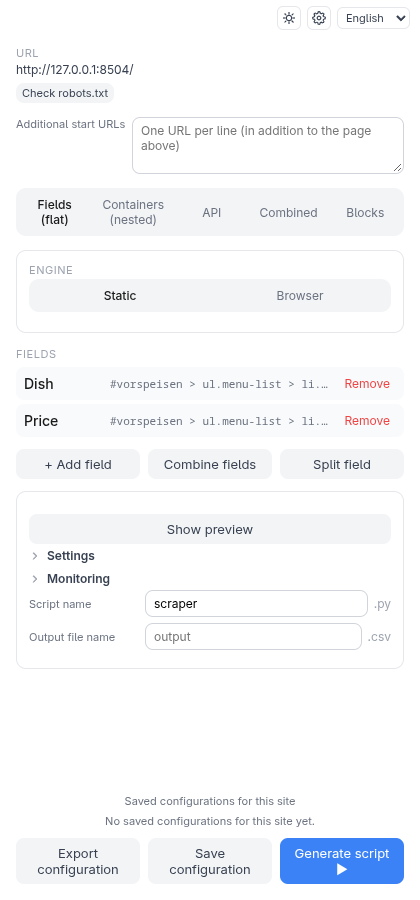
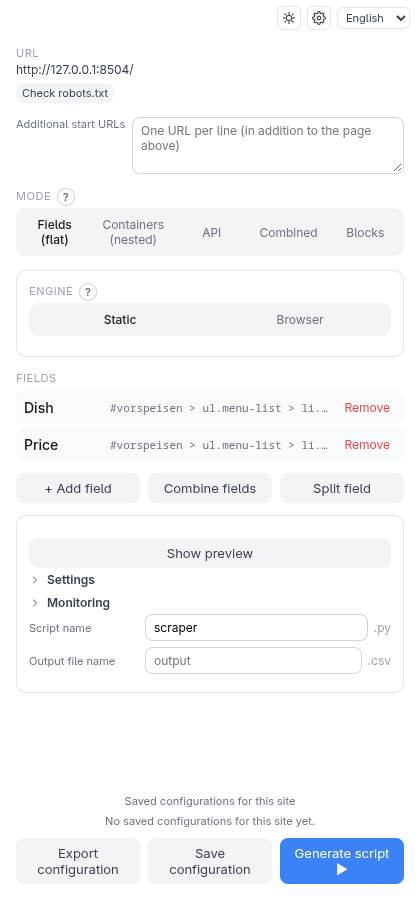
docs(ui): document the choice guidance and refresh the affected screenshots (#398)

diff --git a/e2e/screenshots/scenarios/modes.js b/e2e/screenshots/scenarios/modes.js
@@ -1,6 +1,15 @@
 // Screenshots for docs/user/modes.md — the mode toggle and a container tree.
 module.exports = [
   {
+    id: 'modes-help',
+    fixture: 'speisekarte',
+    async run(s) {
+      await s.waitForIdle();
+      await s.popupPage.locator('.row-label:has(.help-host[data-help="help.mode.choice"]) .help-btn').click();
+      await s.shot('modes-help');
+    },
+  },
+  {
     id: 'modes-toggle',
     fixture: 'speisekarte',
     async run(s) {

diff --git a/CLAUDE.md b/CLAUDE.md
@@ -76,6 +76,7 @@ docs/
 - **Visual design refresh: design tokens, icons, interaction consistency** (Issue #139): a purely visual pass over `popup/popup.html`'s CSS — no information-architecture/flow change. A `:root` block of CSS custom properties (`--color-*`, `--radius-*`, `--shadow-*`/`--overlay-*`, `--focus-ring`, `--transition-fast`) replaces ~90 one-off hex/rgba/border-radius literals that had been scattered through the file with no shared source of truth, migrated value-for-value (verified pixel-identical via before/after screenshots) with one deliberate exception: the success-icon's `#22c55e` and the pre-existing `#16a34a` (already used for robots-allowed/toast-info) are two near-identical greens with no reason to differ, so they now share one `--color-success` token. This is also the direct prerequisite for a future dark-mode pass — a `[data-theme="dark"]` block would only need to redefine these tokens, not every rule using them. The two literal Unicode status glyphs (`⚠`/`✓`) are now small hand-drawn inline SVGs (no icon font/CDN, per the "free plugin" principle), sized/colored via the token set. The three independent tree-toggle implementations (`container-tree-ui.js`'s group tree, `api-config-ui.js`'s API tree, `popup.js`'s DOM tree view) — each of which swapped between two different Unicode glyphs (`▸`/`▾`) via `textContent` on every click — now each insert one static chevron SVG per row and toggle a `.collapsed` class instead, with the actual rotation (`transform: rotate(-90deg)`) handled once in shared CSS rather than duplicated per-file click-handler logic; the DOM tree view keeps its "starts collapsed" default (unlike the group/api trees, which start expanded) by applying `.collapsed` at build time. Finally, hover/active/transition treatment is unified: the shared `button{}` base rule now transitions multiple properties via `--transition-fast` (was: `background .1s` only) and every button gets a uniform `:active` press feedback (`translateY(1px)`) — `.mode-btn`/`.btn-toggle` inherit both for free since they're plain `<button>`s; inactive `.mode-btn` tabs and the three tree-row types (`.group-tree-row`/`.api-tree-row`/`.body-tree-row`, previously with zero interactive feedback) gained a hover state; text inputs/textareas/selects share one focus-transition rule. Deliberately out of scope: turning "Remove"/"+ Add"-style text-label buttons into icon+label, which would be a much larger pass and risks breaking existing `.textContent` assertions in `popup.test.js`.
 - **Dark mode + visual modernization pass** (Issue #140): builds directly on #139's token groundwork — every color/overlay/shadow token now lives in a light/dark pair instead of one fixed set. `:root` carries the light defaults; `@media (prefers-color-scheme: dark) { :root:not([data-theme]) { ... } }` redefines them automatically when the OS prefers dark and the user hasn't made an explicit choice; an explicit `html[data-theme="light"|"dark"]` override (see `shared/theme.js` below) always wins over both, and needs no rule of its own for "light" specifically since the media query already stays out of its way when the attribute is present. `color-scheme: light dark` on `:root` (narrowed to a single value by the two explicit-override rules) gives native form controls — checkbox/select-popup chrome, and any `input`/`textarea` with no explicit background of its own, like `#input-additional-urls` — a correct dark rendering for free. **Contrast audit** (called for by the issue): every status color already read from #139's token set, so brightening them for dark backgrounds was enough — no per-rule changes needed for `.robots-txt-allowed`/`.preview-summary.warn`/toast variants/etc. One real bug the audit *did* catch: several "white text on a colored background" rules (`.btn-primary`, `.toast`, picked chips) used `var(--color-surface)` for that text color — correct by coincidence in light mode (surface happens to be white) but flips to near-black in dark mode. A new theme-agnostic `--color-on-accent` token (always a light color regardless of theme, since the accent backgrounds themselves stay readable with light text in both) replaces `--color-surface` at every one of those call sites. **Manual toggle**: a new `extension/shared/theme.js` mirrors `i18n.js`'s `getStoredLanguage`/`setLanguage` pattern exactly (`chrome.storage.local`), with one difference — "follow the OS" is a real third state, represented as `null` (not a storable `'system'` string) throughout the module. `#theme-toggle` next to the language selector cycles system → light → dark → system on click (`SFTheme.cycleTheme`), a single compact icon button chosen over a dropdown for lack of panel-width room next to the existing language `<select>`. **Modernization** (requested alongside the issue, not part of its own scope): the radius scale is nudged up again (6/8/10/14, from #139's 4/6/8/10) for a softer feel; `--transition-fast` switches from a plain linear ease to the "standard" `cubic-bezier(0.4, 0, 0.2, 1)` easing curve; a new `--glow-primary` gives `.btn-primary:hover` a soft colored glow instead of a flat color swap; the old flat `--shadow-sm`/`--shadow-md` pair is replaced by a graded `--elevation-1/2/3` scale (layered shadow pairs) for more "floating" depth on the mode-toggle active pill and modal; the `.mode-toggle`/`.mode-btn` segmented controls (mode/engine/notify-method — three markup instances) gain an animated sliding `.mode-toggle-thumb` behind the active button instead of each button just recoloring itself in place, positioned via `popup.js`'s `syncModeToggleThumbs()` (JS, not CSS-only, since it depends on the active button's actual rendered offset/width) — called at the end of every `render()` and on a rAF-throttled `window.resize` listener, since the side panel is user-resizable; `.engine-section`/`.output-settings` get an outlined "card" (border only, no fill, since their own children already use `--color-surface-subtle`) to break up the idle screen's otherwise undifferentiated list of settings — the mode-specific sections are deliberately left unboxed since they're the primary content being edited and already carry their own row-level visual treatment; every scrollable container from #138/#122 gets a slim `::-webkit-scrollbar` (Chromium-only, matching the extension's own supported browser range). Deliberately out of scope, same reasoning as #139: turning text-label buttons into icon+label.
 - **esbuild bundling; "Load unpacked" points at `extension/dist/`** (Issue #389): the extension is no longer loaded straight from its source folder. `extension/build.js` (`npm run build`, `npm run build:watch`, plus `--channel release` and `--outdir <dir>` for `install/build-bundle.sh`) bundles four entry points — `popup/popup.js` (side panel), `content/content-script.js` (isolated world, every frame; `shared/logger.js` is bundled in, so the manifest no longer lists it), `content/api-capture.js` (the `"world": "MAIN"` recorder, `document_start`) and `background/service-worker.js` — as `iife` for Chromium 114+ into `dist/<same relative path>`, source maps beside them, and copies the static files (`manifest.json`, `popup/popup.html`, `popup/popup.css`, `popup/screens/*.html`) to the same relative paths, so `chrome.runtime.getURL('popup/screens/idle.html')` and the manifest paths are unchanged. `dist/` is git-ignored; Jest, `tsc` and the e2e harness treat it as build output (`modulePathIgnorePatterns`, `exclude`). **What the bundler replaced:** every module used to carry dual-environment boilerplate so the same file ran as a classic `<script>` (shared global scope) and under Jest (CommonJS) — an IIFE assigning one `self.SFXxx` global, a `typeof require !== 'undefined' ? require(...) : self.SFXxx` shim per import, a `typeof module`/`self` export footer, a 56-line `<script>` list in `popup.html`, and `classic-script-loading.test.js` guarding the top-level-name-collision bug class that came with it. All of that is gone: a module is now plain CommonJS (`const { x } = require('./y')`, `module.exports = { ... }`), `popup.html` has one `<script src="popup.js">`, and Jest keeps running the sources directly. No behavior change. **The three explicit replacements for what used to be environment sniffing:** `i18n/i18n.js` `require`s the three dictionaries statically (inlined into the popup bundle, loaded identically in Jest — no fetch, no `chrome.runtime.getURL`); `popup.js`'s `loadScreenPartial` and `content/api-capture.js`'s fetch/XHR patching check `process.env.NODE_ENV === 'test'` (Jest sets it, the build `define`s it to `"production"`, so the code is dead-branch-free in the bundle and `process` never exists at runtime — never reference `process` for anything else). **Release channel** (Issue #352): `shared/build-config.js` derives `CHANNEL` from `process.env.SF_CHANNEL`, which `build.js` always `define`s (`"development"` by default, `"release"` for `--channel release`); `install/build-bundle.sh` builds the release channel into a temp dir (`npm ci` + `node build.js --channel release --outdir …`, then ships the bundle without `.map` files) instead of `sed`-rewriting a source line, and `build.js` fails the build if a release build did not actually produce the release constant. `shared/companion-url-policy.test.js` builds the real module with each channel to prove it. **Consequences for contributors:** after editing extension code run `npm run build` (or leave `build:watch` running) and reload the extension at `chrome://extensions`; there are no page-level globals any more (`self.SFXxx`, `SFTheme`, a popup's `_state`) — a real-browser check that needs to reach into the popup must go through the DOM, `chrome.storage` or Playwright routes, not `page.evaluate(() => SFFoo…)`; a new module needs no `popup.html` edit, just a `require`. TypeScript conversion stays a separate, file-by-file follow-up.
+- **Guidance for the first decisions: mode, container type, field type, engine** (Issue #398, UX audit findings 1/2/11): each choice that used to be unexplained now has a #396 help popover with a one-line "which fits?" and an example per option — the **mode** toggle (`help.mode.choice`, one line each for Fields, Containers, API and Combined/Blocks together), the **engine** row (`help.engine.choice`; the hover-only `idle.engineBrowserTitle` tooltip and its `title` attribute are gone), the **container type** in `modal-container-new` (`help.containerType.type`, Single element vs. Repeating, with the example "Menu with 12 dishes → Repeating") and the **field type** (`help.fieldType.container` — Text/Attribute/Exists?/Own text only — in `modal-field-extended`, `help.fieldType.flat` — Text/Attribute — in flat mode's `#field-name-mode-section`). Existing labels keep their names (docs/screenshots use them); the gloss lives in the popover. Markup gotcha: `data-i18n` replaces an element's whole content, so a label that carries a help host keeps its text in an inner `<span data-i18n>` next to the host (`<span class="help-host">`), and a host in a `.row-label` div uses `data-help-anchor` on that div so the panel is inserted after the row. New label `idle.modeLabel` ("Mode") above the mode toggle. **The container type is chosen before the element is picked** (name/type modal first, deliberately — see "Container mode" below), so the live match count can't sit next to the choice; instead the toast right after the pick checks the count against the chosen type (`choice-guidance.js` `containerCountAdvice(count, repeating)` → `zero` / `singleMany` / `repeatingOne` / `ok` / `unknown`; `showMatchCountToast(name, count, repeating)` — `message-router.js` and `session-restore.js` pass `pendingNewContainer.repeating`): several matches for a *single* container → warn toast "only the first is used", one match for a *repeating* one → info hint, otherwise the plain "N element(s) found". Its remedy is new UI: a group row's "(single)"/"(repeating)" suffix is now a `button.group-tree-type` (`container-tree-ui.js`; fields keep a plain `span`) whose delegated click flips `repeating` via `updateGroupTreeNode` — before, the type couldn't be changed once the container existed. **Static → Browser suggestion**: when `generate()` fails and the engine is `Static`, `shouldSuggestBrowserEngine(engine, message)` (matches only the companion verifier's stable sentence "…returned no data", `PythonScriptVerifier`) appends `toast.noDataTryBrowser` to the error toast — widening that message mapping is the error-message issue's (#401) job. Covered by `choice-guidance.test.js` (pure logic, the toast variants, the tree toggle at any depth, the suggestion for Static vs. Browser) and `e2e/examples/issue-398-choice-guidance-check.js` (popovers on the idle screen and in both field/container modals incl. one-at-a-time and no tooltip, de/es, single+many warning and the toggle, repeating+one hint, and a real Static trial run on the JavaScript-built `infinite-scroll` fixture ending with the suggestion).
 - **Companion-unreachable guidance** (Issue #406): the `COMPANION_ERROR` screen used to say only "Start ScrapingFactory.Companion and try again" — nothing about what the companion is, where it comes from or what to do for which situation (UX audit finding 19). It now has two forms, switched by whether a companion has *ever* answered on this browser: until the first successful health check (flag `companionReached`, `chrome.storage.local`, written by `checkCompanion` via `markCompanionReached()`, loaded at the start of every check) the **long form** (`#error-guidance-long`) explains the companion in a sentence and lists the three situations — "1 · Not installed yet" (the installer name and exact command for this OS: `install.sh --autostart` / `powershell … install.ps1 -Autostart`, the same as `install/INSTALL.md`), "2 · Installed, but not running" (run the installer again — it starts the companion — or start the program from where the installers put it: `~/.config/ScrapingFactory/app/companion/ScrapingFactory.Companion`, `~/Library/Application Support/…` on macOS, `%APPDATA%\ScrapingFactory\app\companion\ScrapingFactory.Companion.exe`), "3 · Running on another address or port" (the existing address field; `https://` for another computer); afterwards only the one-line hint (`#error-hint-short`). "Once" is read as *until the companion has been reached*, not "only the first time the screen is shown", so someone who closes and reopens the panel before installing keeps the help. Both forms keep a **"Why can't it connect?"** `help.companionError.causes` popover (a #396 help host) listing the four usual causes with their fix (not started, other port/computer, https needed — the #352 address policy —, a shared companion may want an access key); the help component gained one rule for it: a `\n` in a help text starts a new line (`white-space: pre-line`). **Most likely**: `likelySituations({url, defaultUrl, errorMessage})` marks situation 3 for a custom address or an HTTP error answer (something other than a healthy companion is there) and 1+2 for the default address that didn't answer at all; `checkCompanion` keeps the last failure for it (`getCompanionFailure()`, cleared on success). Texts carrying a parameter (the installer name) are set by script, not `data-i18n` (`applyStaticTranslations` passes no parameters); the OS comes from `navigator.userAgent` (`detectPlatform`, anything but Windows/macOS gets the shell instructions). New modules per Architecture Decision #12/#13: `popup/companion-guidance.js` (pure logic + the flag; no `@ts-check` since it touches `chrome.storage`) and `popup/companion-guidance-ui.js` (`renderCompanionGuidance()`, called from `popup.js`'s `render()` right after `renderCompanionErrorScreen()`; it requires `companion-client.js`, never the other way round). Covered by `companion-guidance.test.js`, `companion-guidance-ui.test.js` (against the real `popup.html` markup) and `e2e/examples/issue-406-companion-guidance-check.js` (no companion running; long form + OS command + the likely mark, popover with mouse/keyboard, de/es, the custom-address flow reaching a real companion and ending the first-run state, the short form afterwards, 280/320/400 px).
 - **Help popover, "Advanced" disclosure and help-text conventions** (Issue #396): the shared building blocks for explaining a field *at the field* instead of in a long hint paragraph or a hover-only tooltip (13 of the `…Hint` strings were over 250 characters; a `title` attribute is invisible on touch/keyboard and easy to miss in a side panel). **Help popover**: a screen declares one in HTML as `<span class="help-host" data-help="help.<area>.<field>"></span>` (placed next to a label, typically inside the toggle's `<label>`; for DOM built in JS, `helpHostHtml(key)`) — no per-field JS. `popup/help-popover.js` is the pure half (`isValidHelpKey`, `getHelpEntry(t, key)` → `{text, example}`, `collectHelpKeysFromHtml`/`collectHelpEntries`, `helpEntryProblems`/`helpEntryLengthWarnings`, `nextOpenHelpId`); `popup/help-popover-ui.js` renders it: `initHelpPopovers()` (idempotent; called from `popup.js`'s `applyStaticTranslations`, so it runs after the screen partials are in the DOM and again on every language change — an open panel stays open and re-translates) appends a "?" `<button class="help-btn">` to each host and inserts a hidden `<div class="help-popover" role="note">` panel right after the host's closest `[data-help-anchor]`, else its closest `<label>`, else the host. The panel is an **in-flow block, not a floating overlay** — in a 280 px side panel that is the one placement that can never run off-screen. `wireHelpPopoverEvents()` (once, delegated on `document`): click toggles, a click elsewhere closes, **Escape** closes and returns focus to the button, only one popover is open at a time; Enter/Space come from the native button. `aria-expanded` + `aria-controls` + `aria-describedby` on the button, `aria-label`/`title` from `common.helpBtn`. The button `preventDefault`s its click, because a host inside a checkbox `<label>` would otherwise toggle the checkbox. Colors come from the theme tokens, so light/dark need no rules of their own. **"Advanced" disclosure**: `<details class="advanced-disclosure" data-advanced="<section id>"><summary data-i18n="common.advanced">…</summary>…</details>` (or `createAdvancedDisclosure(id)` in JS) tucks rarely needed options away; collapsed by default, and whether a section was opened is remembered **per section id** in `chrome.storage.local` (`advancedSections`, only opened sections are stored; `advanced-disclosure.js` pure logic + storage, `advanced-disclosure-ui.js` applies it via `initAdvancedDisclosures()` from `init()` and persists changes via a capture-phase `toggle` listener, since `toggle` does not bubble). There is deliberately no global advanced mode, and no existing option was moved into one by #396 — later UX issues do that. **i18n conventions**: help texts live under `help.<area>.<field>.text` (required) and `.example` (optional), camelCase segments, in `de`, `en` and `es`. Guideline: at most 2–3 short sentences — what the option is and what a user must know before touching it, no jargon without a gloss; the example is one line of what to type, rendered in code style; texts that change what a user must do (warnings, limits, errors) stay in the UI proper; longer explanations and worked examples belong in `docs/user/` (#354), so keep help texts short enough not to need rewording when "Learn more" links to the bundled docs arrive. `i18n/help-i18n.test.js` (runs in `npx jest`) reads every `data-help` key from `popup.html` and `screens/*.html` and fails when a referenced key is missing in any language, when a `help.*` entry exists in one language but not all three, when an entry has no `text` / an unknown property / a key that is not `help.<area>.<field>`, or when a host sits in an HTML file the loader never fetches; a deliberately-broken-input suite proves it catches each case. Over-long texts (`HELP_TEXT_MAX_CHARS` 320, examples 120) only `console.warn` — a soft limit. Reference conversions: `idle.requestHeadersHint` → `help.requestHeaders.headers`, `idle.appendOutputHint` → `help.appendOutput.append` (the long `<p class="preview-summary">` paragraphs are gone); the hover-only engine tooltip is left to the issue that owns it. Covered by `help-popover.test.js`, `help-popover-ui.test.js`, `advanced-disclosure.test.js`, `help-i18n.test.js` and the real-browser check `e2e/examples/issue-396-help-popover-check.js` (mouse, Tab/Enter/Space/Escape, one-at-a-time, no horizontal overflow added at 280/320/400 px — the panel's own pre-existing 44 px at 280 px is not this feature's —, German + dark theme, the disclosure remembered across a reload).
 - The popup/side panel (`extension/popup/popup.js`) supports three strictly separate modes: "Fields (flat)" (the original mode), "Containers (nested)" and "API" — switching modes clears the configuration of the other two modes (`switchMode`/`MODE_SWITCH_CLEARS`). The container tree is rendered as an editable tree following the same visual pattern as the DOM tree view (`renderGroupTree`/`buildGroupTreeNodeEl` in `popup/container-tree-ui.js`, mirroring `renderDomTree`/`buildTreeNodeEl` in `popup.js`); creating a container asks for name/type **before** the click-based element selection (`modal-container-new`), while creating a data field asks (as in flat mode) **after** the click-based selection (`modal-field-extended`, with a field-type dropdown: Text/Attribute/Exists?/OwnText — see Issue #169 below)

diff --git a/docs/ARCHITECTURE.md b/docs/ARCHITECTURE.md
@@ -568,6 +568,23 @@ OS — in full until a companion has answered once on this browser
 - Tests: `popup/companion-guidance.test.js`, `popup/companion-guidance-ui.test.js`,
   real-browser check `e2e/examples/issue-406-companion-guidance-check.js`
 
+### 2.10b Guidance for choosing mode, container type, field type and engine (Issue #398)
+
+#396 help popovers (`help.mode.choice`, `help.engine.choice`, `help.containerType.type`,
+`help.fieldType.container|flat`) next to the first decisions of a scrape, a match-count
+check after a container pick against the type chosen beforehand, a clickable
+"(single)"/"(repeating)" suffix in the container tree, and a "try the Browser engine"
+suggestion when a Static trial run returns no data. See CLAUDE.md for details.
+
+- Extension: `popup/choice-guidance.js` (pure: `containerCountAdvice`,
+  `shouldSuggestBrowserEngine`), `popup/toast.js` (`showMatchCountToast`),
+  `popup/message-router.js`/`popup/session-restore.js` (pass the chosen type),
+  `popup/container-tree-ui.js` (`.group-tree-type` toggle), `popup/companion-client.js`
+  (`generate()` suggestion), help hosts in `popup/screens/idle.html`/`modals.html`,
+  `help.*`/`toast.*`/`group.*` in `i18n/*.json`
+- Tests: `popup/choice-guidance.test.js`, real-browser check
+  `e2e/examples/issue-398-choice-guidance-check.js`
+
 ### 2.11 i18n (extension UI language)
 
 Lets the user pick the popup's own display language (German/English/Spanish)

diff --git a/docs/user/modes.md b/docs/user/modes.md
@@ -17,6 +17,13 @@ others, so pick one per scraper.
 Any mode can be switched to JSON, SQLite or Excel output; see
 [Output formats](output.md).
 
+Not sure which one fits? Click the **?** next to **Mode** — it gives a one-line
+"which fits?" with an example for each. The same kind of **?** sits next to
+**Engine**, the container **Type** and the **Field type**, so the decision is
+explained where you make it.
+
+![The mode help popover](images/modes-help.png)
+
 ## Fields (flat)
 
 The simplest mode, covered step by step in [Getting started](getting-started.md).
@@ -49,6 +56,12 @@ The result is a tree. Field clicks inside a container are limited to that
 container, and the selector works for whichever dish you clicked in:
 
 ![A container with two fields](images/modes-container-tree.png)
+
+You choose **Single element** or **Repeating** before clicking, so the extension
+checks your choice against what the click matched: several matches for a *single*
+container, or just one for a *repeating* one, show a notice right after the pick.
+The "(single)" / "(repeating)" label in the tree is a button — click it to switch
+the type later.
 
 Every row can be renamed in place and reordered with the arrow buttons. A field
 has a type: **Text**, **Attribute** (for example a link's address or an image's

diff --git a/docs/user/browser-engine.md b/docs/user/browser-engine.md
@@ -8,7 +8,10 @@ drives a real Chromium through Playwright.
 
 ## Switching engine
 
-In the idle screen, the **Engine** row has **Static** and **Browser**. Choosing
+In the idle screen, the **Engine** row has **Static** and **Browser** (the **?**
+next to it says which fits). When a trial run on **Static** finds no data, the
+error suggests trying **Browser** — a very common cause is a page that builds its
+content with JavaScript. Choosing
 **Browser** reveals the **Browser actions** list.
 
 The Browser engine needs extra software on the machine that runs the script
